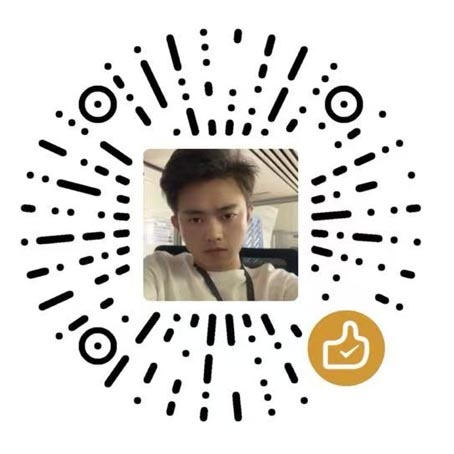
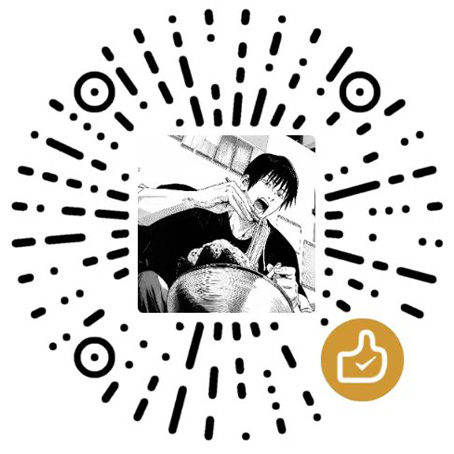
更新二维码图片 + 修复dev端口硬编码问题

diff --git a/electron/main.ts b/electron/main.ts
@@ -29,7 +29,7 @@ function createWindow(): void {
   setMainWindow(mainWindow)
 
   // Dev: load from Vite dev server; Prod: load from built files
-  const devUrl = 'http://localhost:5173'
+  const devUrl = process.env.VITE_DEV_URL || 'http://localhost:5173'
   const prodPath = path.join(__dirname, '..', 'dist', 'index.html')
 
   if (fs.existsSync(prodPath)) {
